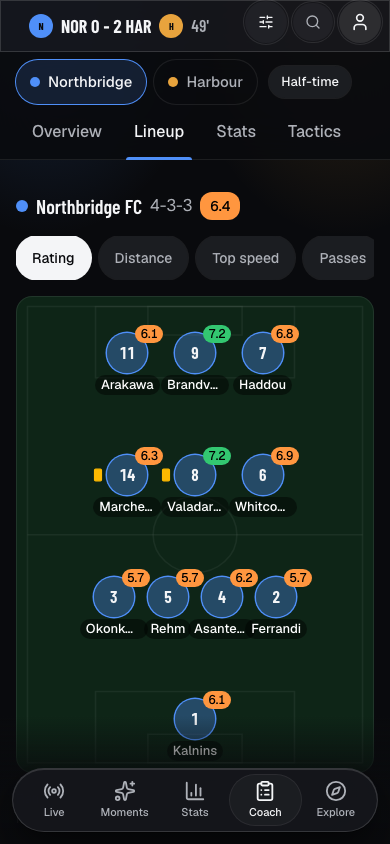
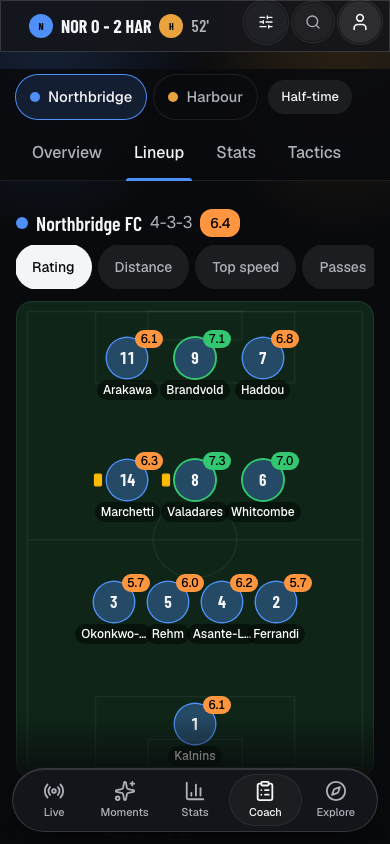
FRONTEND: tactics two-column from 1100px, collapsed setup once a board exists, trace behind a disclosure

diff --git a/frontend/src/features/coach/lineup-tab.tsx b/frontend/src/features/coach/lineup-tab.tsx
@@ -66,7 +66,7 @@ function place(meta: MatchMeta, team: Team): Spot[] {
 type Layout = "vertical" | "home" | "away";
 function toXY(s: Spot, layout: Layout): { x: number; y: number } {
   if (layout === "vertical") return { x: 12 + s.across * 76, y: 91 - s.along * 77 };
-  const x = 5 + s.along * 41;
+  const x = 5 + s.along * 37;
   // Home attacks right (its left is the top of the screen); away attacks left (its left is the bottom).
   return layout === "home" ? { x, y: 12 + s.across * 76 } : { x: 100 - x, y: 12 + (1 - s.across) * 76 };
 }
@@ -88,6 +88,8 @@ function Icons({ m }: { m: Marks }) {
     </>
   );
 }
+
+const short = (name: string) => (name.length > 9 ? `${name.slice(0, 8)}…` : name);
 
 function lensText(lens: Lens, s: PlayerStats | undefined): string | null {
   if (!s) return null;
@@ -128,6 +130,7 @@ function Marker({ spot, layout, meta, rating, stats, marks, lens, potm, side, in
             "grid size-10 place-items-center rounded-full font-display text-base font-bold ring-[1.5px] transition-transform group-hover:scale-105 group-focus-visible:ring-2 group-focus-visible:ring-ring",
             side === "home" ? "bg-home/35 ring-home" : "bg-away/35 ring-away",
             poor && "ring-2 ring-[var(--rating-poor)]",
+            rating && rating.data_rating >= 7 && "ring-2 ring-[var(--rating-good)]",
           )}
         >
           {p.shirt}
@@ -139,7 +142,7 @@ function Marker({ spot, layout, meta, rating, stats, marks, lens, potm, side, in
         ) : null}
         <Icons m={marks} />
       </span>
-      <span className="max-w-[96px] max-sm:max-w-[68px] truncate rounded-full bg-black/45 px-1.5 text-[13px] leading-5 font-medium text-white">{p.short_name}</span>
+      <span title={p.name} className="rounded-full bg-black/45 px-1.5 text-xs leading-5 font-medium whitespace-nowrap text-white">{short(p.short_name)}</span>
     </button>
   );
 }
@@ -173,7 +176,7 @@ function PitchFrame({ horizontal, label, children }: { horizontal: boolean; labe
   return (
     <div
       className="relative mx-auto w-full overflow-hidden rounded-2xl border bg-turf"
-      style={horizontal ? { aspectRatio: "105 / 68", maxHeight: "min(600px, 72vh)", maxWidth: "calc(min(600px, 72vh) * 105 / 68)" } : { aspectRatio: "3 / 4", maxHeight: "min(640px, 70vh)", maxWidth: "calc(min(640px, 70vh) * 3 / 4)" }}
+      style={horizontal ? { aspectRatio: "105 / 68", width: "min(100%, calc(clamp(360px, calc(100dvh - 270px), 640px) * 105 / 68))" } : { aspectRatio: "3 / 4", width: "min(100%, calc(clamp(360px, calc(100dvh - 330px), 640px) * 3 / 4))" }}
     >
       <PitchLines horizontal={horizontal} />
       <div role="group" aria-label={label} className="absolute inset-0">
@@ -272,25 +275,24 @@ export function LineupTab() {
       <Marker key={spot.id} spot={spot} layout={wide ? side : "vertical"} meta={meta} rating={map.get(spot.id)} stats={stats.get(spot.id)} marks={marks.get(spot.id) ?? NONE} lens={lens} potm={potmId === spot.id} side={side} index={i} onKey={moveFocus} />
     ));
   return (
-    <div className="flex flex-col gap-4 py-4">
-      <div className="flex flex-wrap items-center justify-between gap-x-6 gap-y-2">
+    <div className="flex flex-col gap-3 py-3">
+      <div className="flex flex-wrap items-center justify-between gap-x-4 gap-y-2">
         {sides.map((s) => (
           <TeamStrip key={s} meta={meta} side={s} ratings={map} />
         ))}
+        {lenses.length > 1 && (
+          <div role="radiogroup" aria-label={copy.coachPage.lensLabel} title={copy.coachPage.legend} className="order-last flex w-full gap-2 overflow-x-auto sm:order-none sm:w-auto [scrollbar-width:none]">
+            {lenses.map(([l, label]) => (
+              <button key={l} type="button" role="radio" aria-checked={lens === l} onClick={() => setLens(l)} className={cn("h-11 shrink-0 rounded-full px-4 text-sm font-medium ring-1", lens === l ? "bg-foreground text-background ring-foreground" : "bg-raised text-muted-foreground ring-border hover:text-foreground")}>
+                {label}
+              </button>
+            ))}
+          </div>
+        )}
       </div>
-      {lenses.length > 1 && (
-        <div role="radiogroup" aria-label={copy.coachPage.lensLabel} className="flex gap-2 overflow-x-auto [scrollbar-width:none]">
-          {lenses.map(([l, label]) => (
-            <button key={l} type="button" role="radio" aria-checked={lens === l} onClick={() => setLens(l)} className={cn("h-11 shrink-0 rounded-full px-4 text-sm font-medium ring-1", lens === l ? "bg-foreground text-background ring-foreground" : "bg-raised text-muted-foreground ring-border hover:text-foreground")}>
-              {label}
-            </button>
-          ))}
-        </div>
-      )}
       <PitchFrame horizontal={wide} label={sides.map((s) => `${meta[s].name} ${meta[s].formation}`).join(", ")}>
         {sides.flatMap((s) => marker(s))}
       </PitchFrame>
-      <p className="text-[13px] text-muted-foreground">{copy.coachPage.legend}</p>
       <div className={cn("grid gap-x-8 gap-y-4", wide && "grid-cols-2")}>
         {sides.map((s) => (
           <Subs key={s} meta={meta} team={meta[s]} ratings={map} marks={marks} side={s} />

diff --git a/frontend/src/features/tactics/tactics-board.tsx b/frontend/src/features/tactics/tactics-board.tsx
@@ -163,6 +163,7 @@ export function TacticsBoardView({ fixture }: { fixture: boolean }) {
   const [pickedTeam, setPickedTeam] = useState<string | null>(null);
   const [settings, setSettings] = useState<PromptSettings>({ prompt: "", risk: "balanced", n: 4, horizon: 10 });
   const [boardId, setBoardId] = useState<string | null>(null);
+  const [editing, setEditing] = useState(true);
   const [pickedBranch, setPickedBranch] = useState<string | null>(null);
   const [compareWith, setCompareWith] = useState<string | null>(null);
   const [comparing, setComparing] = useState<string | null>(null);
@@ -193,6 +194,7 @@ export function TacticsBoardView({ fixture }: { fixture: boolean }) {
     create.mutate(request, {
       onSuccess: (created) => {
         setBoardId(created.board_id);
+        setEditing(false);
         setPickedBranch(null);
         setComparing(null);
         setCompareWith(null);
@@ -253,7 +255,7 @@ export function TacticsBoardView({ fixture }: { fixture: boolean }) {
           <h1 className="sr-only">{t.heading}</h1>
           {fixture && <Badge className="bg-rewritten/15 text-rewritten">{t.fixtureBanner}</Badge>}
         </div>
-        <p className="max-w-prose text-sm text-muted-foreground">{t.intro}</p>
+        {!boardId && <p className="max-w-prose text-sm text-muted-foreground">{t.intro}</p>}
       </div>
 
       <div className="flex flex-col gap-6">
@@ -265,11 +267,20 @@ export function TacticsBoardView({ fixture }: { fixture: boolean }) {
             if (canBuild) build();
           }}
         >
-          <ScenarioPrompt
-            {...settings}
-            onChange={(next) => setSettings((s) => ({ ...s, ...next }))}
-            extra={<MomentPicker source={source} onSource={setSource} moments={moments} maxElapsed={maxElapsed} teams={teams} teamId={teamId} onTeam={setPickedTeam} />}
-          />
+          {boardId && !editing ? (
+            <div className="flex flex-wrap items-center gap-3">
+              <p className="min-w-0 flex-1 truncate text-base font-medium">{t.goalFirst.goals.find((x) => x.text === settings.prompt)?.label ?? (settings.prompt.trim() || t.goalFirst.question)}</p>
+              <Button type="button" variant="outline" className="h-11 px-4" onClick={() => setEditing(true)}>
+                {t.changeSituation}
+              </Button>
+            </div>
+          ) : (
+            <ScenarioPrompt
+              {...settings}
+              onChange={(next) => setSettings((s) => ({ ...s, ...next }))}
+              extra={<MomentPicker source={source} onSource={setSource} moments={moments} maxElapsed={maxElapsed} teams={teams} teamId={teamId} onTeam={setPickedTeam} />}
+            />
+          )}
           <div className="flex flex-col gap-3">
             <Button type="submit" size="lg" className="h-12 w-full gap-2 px-6 text-base sm:w-fit" disabled={!canBuild || working}>
               {working ? <LoaderCircle aria-hidden className="motion-safe:animate-spin" /> : <Hammer aria-hidden />}
@@ -301,7 +312,6 @@ export function TacticsBoardView({ fixture }: { fixture: boolean }) {
           ) : (
             <>
               <SituationBar board={{ situation }} teams={teams} />
-              {board && <AgentTrace board={board} noise={withinNoise(board)} />}
               {query.isError && !board && (
                 <div role="alert" className="flex flex-wrap items-center gap-3 rounded-lg border border-blocked/40 p-4 text-sm">
                   {t.stage.loadFailed}
@@ -325,9 +335,9 @@ export function TacticsBoardView({ fixture }: { fixture: boolean }) {
                 />
               ) : null}
 
-              <div className={cn("grid items-start gap-6", !comparing && "xl:grid-cols-[minmax(0,1fr)_24rem]")}>
+              <div className={cn("grid items-start gap-6", !comparing && "min-[1100px]:grid-cols-[minmax(0,1fr)_26rem]")}>
                 {!comparing && (
-                  <div className="flex min-w-0 flex-col gap-4 xl:sticky xl:top-[calc(var(--stack-h)+1rem)]">
+                  <div className="flex min-w-0 flex-col gap-4 min-[1100px]:sticky min-[1100px]:top-[calc(var(--stack-h)+4.5rem)]">
                     {board && active ? (
                       <>
                         <div className="rounded-lg border bg-card p-4 shadow-raised">
@@ -393,6 +403,16 @@ export function TacticsBoardView({ fixture }: { fixture: boolean }) {
                         ))}
                     </ul>
                   </section>
+                  {board && (
+                    <details className="group rounded-lg border bg-card p-3">
+                      <summary className="flex min-h-11 cursor-pointer list-none items-center justify-between text-sm font-medium [&::-webkit-details-marker]:hidden">
+                        {t.trace.heading}
+                      </summary>
+                      <div className="pt-2">
+                        <AgentTrace board={board} noise={withinNoise(board)} />
+                      </div>
+                    </details>
+                  )}
                 </div>
               </div>
             </>

diff --git a/frontend/src/features/coach/coach-page.tsx b/frontend/src/features/coach/coach-page.tsx
@@ -4,7 +4,7 @@ import { useIsFetching, useQueryClient } from "@tanstack/react-query";
 import { LayoutGroup, m } from "motion/react";
 import { RotateCw } from "lucide-react";
 import { useSearchParams } from "next/navigation";
-import { Suspense, useId, useState } from "react";
+import { Suspense, useEffect, useId, useRef, useState } from "react";
 
 import { StablePanel } from "@/components/ui/stable-panel";
 import { Button } from "@/components/ui/button";
@@ -34,7 +34,7 @@ function CoachTabs({ tab, onChange }: { tab: Tab; onChange: (t: Tab) => void }) 
   const id = useId();
   return (
     <LayoutGroup id={id}>
-      <div role="tablist" aria-label={copy.coachPage.tabs} className="-mb-px flex overflow-x-auto overscroll-x-contain [scrollbar-width:none]">
+      <div role="tablist" aria-label={copy.coachPage.tabs} className="-mb-px flex max-w-full overflow-x-auto overscroll-x-contain [scrollbar-width:none]">
         {TABS.map((t) => {
           const active = t.id === tab;
           return (
@@ -80,13 +80,25 @@ function Header({ tab, onChange }: { tab: Tab; onChange: (t: Tab) => void }) {
   const picked = useCoach((s) => s.teamId);
   const client = useQueryClient();
   const fetching = useIsFetching({ queryKey: ["coach"] }) > 0;
+  const sentinel = useRef<HTMLDivElement>(null);
+  const [stuck, setStuck] = useState(false);
+  useEffect(() => {
+    const el = sentinel.current;
+    if (!el) return;
+    const offset = parseInt(getComputedStyle(document.documentElement).getPropertyValue("--stack-h")) || 52;
+    const io = new IntersectionObserver(([entry]) => setStuck(!entry.isIntersecting), { rootMargin: `-${offset}px 0px 0px 0px`, threshold: 0 });
+    io.observe(el);
+    return () => io.disconnect();
+  }, []);
   const teamId = picked ?? meta?.home.team_id ?? null;
   const half = state ? state.elapsed >= 2700 && state.elapsed <= 3600 && !finished : false;
   const phase = finished ? copy.report.phase.full : half ? copy.report.phase.half : state ? copy.coachPage.liveAt(state.minute_label) : "";
   return (
-    <div className="sticky top-[var(--stack-h)] z-30 -mx-4 border-b bg-background/90 px-4 backdrop-blur-xl md:-mx-6 md:px-6 xl:-mx-8 xl:px-8 print:hidden">
-      <div className="mx-auto max-w-7xl">
-      <div className="flex flex-wrap items-center gap-x-3 gap-y-1 pt-2">
+    <>
+    <div ref={sentinel} aria-hidden className="h-px" />
+    <div className={cn("sticky top-[var(--stack-h)] z-30 border-b transition-colors print:hidden", stuck ? "glass-strong" : "bg-background/90")}>
+      <div className="mx-auto flex max-w-7xl flex-wrap items-end justify-between gap-x-4 px-4 md:px-6 xl:px-8">
+      <div className="flex flex-wrap items-center gap-x-3 gap-y-1 py-1.5">
         {meta && teamId && (
           <div role="radiogroup" aria-label={copy.coachPage.team} className="flex gap-2">
             {(["home", "away"] as const).map((side) => {
@@ -121,6 +133,7 @@ function Header({ tab, onChange }: { tab: Tab; onChange: (t: Tab) => void }) {
       <CoachTabs tab={tab} onChange={onChange} />
       </div>
     </div>
+    </>
   );
 }
 
@@ -136,9 +149,9 @@ function Body() {
     window.history.replaceState(null, "", next === "overview" ? "/coach" : `/coach?tab=${next}`);
   };
   return (
-    <div className="flex flex-col gap-4 px-4 pb-8 md:px-6 xl:px-8" style={{ ["--accent-team" as string]: side === "home" ? "var(--team-home)" : "var(--team-away)" }}>
+    <div className="flex flex-col gap-4 pb-8" style={{ ["--accent-team" as string]: side === "home" ? "var(--team-home)" : "var(--team-away)" }}>
       <Header tab={tab} onChange={change} />
-      <div className="mx-auto w-full max-w-7xl">
+      <div className="mx-auto w-full max-w-7xl px-4 md:px-6 xl:px-8">
         <StablePanel panelKey={tab}>
           <div id="coach-panel" role="tabpanel" aria-labelledby={`coach-tab-${tab}`}>
             {tab === "overview" ? (

diff --git a/frontend/src/features/stats/stat-rows.tsx b/frontend/src/features/stats/stat-rows.tsx
@@ -44,9 +44,9 @@ function cards(meta: MatchMeta, timeline: MatchEvent[], side: "home" | "away") {
   return { yellow: own.filter((e) => !red(e)).length, red: own.filter(red).length };
 }
 
-function useGroups(meta: MatchMeta, period: Period, h: TeamStats, a: TeamStats): Group[] {
+function useGroups(meta: MatchMeta, period: Period, h: TeamStats, a: TeamStats, coach: boolean): Group[] {
   const timeline = useLive((s) => s.timeline);
-  const analyst = useAnalystWording();
+  const analyst = useAnalystWording() || coach;
   const ratings = useRatings().data;
   const players = usePlayersStats((ratings ?? []).map((r) => r.player_id));
   return useMemo(() => {
@@ -170,7 +170,7 @@ function PeriodFilter({ value, onChange, second }: { value: Period; onChange: (p
 }
 
 /** The whole team comparison: filter, possession bar, then grouped rows. Rows the feed lacks are left out. */
-export function TeamStatRows() {
+export function TeamStatRows({ coach = false }: { coach?: boolean }) {
   const meta = useLive((s) => s.meta);
   const state = useLive((s) => s.state);
   const half = Boolean(state && state.elapsed >= 2700 && state.elapsed <= 3600 && state.status !== "full_time");
@@ -186,19 +186,18 @@ export function TeamStatRows() {
       </div>
     );
   }
-  return <Rows meta={meta} h={home} a={away} period={period} setPeriod={setPeriod} second={(state?.period ?? 1) >= 2} />;
+  return <Rows meta={meta} h={home} a={away} period={period} setPeriod={setPeriod} second={(state?.period ?? 1) >= 2} coach={coach} />;
 }
 
-function Rows({ meta, h, a, period, setPeriod, second }: { meta: MatchMeta; h: TeamStats; a: TeamStats; period: Period; setPeriod: (p: Period) => void; second: boolean }) {
-  const groups = useGroups(meta, period, h, a);
+function Rows({ meta, h, a, period, setPeriod, second, coach }: { meta: MatchMeta; h: TeamStats; a: TeamStats; period: Period; setPeriod: (p: Period) => void; second: boolean; coach: boolean }) {
+  const groups = useGroups(meta, period, h, a, coach);
   return (
     <section aria-labelledby="stat-rows" className="flex flex-col gap-4">
       <h2 id="stat-rows" className="sr-only">{copy.stats.team}</h2>
-      <PeriodFilter value={period} onChange={setPeriod} second={second} />
-      <div className="grid grid-cols-[5rem_minmax(0,1fr)_5rem] items-center text-center font-display text-lg font-semibold">
-        <span className="text-home-text">{meta.home.short_name}</span>
-        <span />
-        <span className="text-away-text">{meta.away.short_name}</span>
+      <div className="flex items-center justify-between gap-3">
+        <span className="font-display text-lg font-semibold text-home-text">{meta.home.short_name}</span>
+        <PeriodFilter value={period} onChange={setPeriod} second={second} />
+        <span className="font-display text-lg font-semibold text-away-text">{meta.away.short_name}</span>
       </div>
       {groups.map((g) => (
         <div key={g.title} className="flex flex-col rounded-2xl bg-card p-4">

diff --git a/frontend/src/features/coach/overview.tsx b/frontend/src/features/coach/overview.tsx
@@ -17,7 +17,6 @@ import { cn } from "@/lib/utils";
 
 import { briefKey, useCoach } from "./coach-store";
 import { RatingBadge } from "./rating";
-import { useAnalystWording } from "./use-analyst";
 
 const CONFIDENCE_TONE: Record<Confidence, string> = {
   high: "bg-verified/15 text-verified",
@@ -141,7 +140,6 @@ function SplitBar({ label, home, away }: { label: string; home: number; away: nu
 
 /** xG race, momentum, territory and possession. Thin samples say so instead of showing 0.00. */
 function GameSoFar({ meta, half, wide }: { meta: MatchMeta; half: boolean; wide: boolean }) {
-  const analyst = useAnalystWording();
   const timeline = useLive((s) => s.timeline);
   const elapsed = useLive((s) => s.state?.elapsed ?? 0);
   const home = useTeamStats(meta.home.team_id).data;
@@ -162,13 +160,12 @@ function GameSoFar({ meta, half, wide }: { meta: MatchMeta; half: boolean; wide:
         {copy.coachPage.gameSoFar}
         {half && <span className="ml-2 text-[13px] font-normal text-muted-foreground">{copy.coachPage.firstHalf}</span>}
       </h2>
-      <div className="grid gap-4 min-[700px]:grid-cols-2 min-[700px]:gap-6 min-[1100px]:grid-cols-1">
+      <div className="grid gap-4 min-[700px]:grid-cols-[340px_minmax(0,1fr)] min-[700px]:gap-6 min-[1100px]:grid-cols-1">
       {thin ? (
         <p className="text-[15px] text-muted-foreground">{copy.coachPage.earlyDays}</p>
       ) : (
         <div className="flex flex-col gap-1">
-          <span className="text-[13px] font-medium text-muted-foreground">{analyst ? "xG" : copy.stats.labels.xg}</span>
-          <div className="max-w-md min-[700px]:max-w-none"><XgTimeline meta={meta} timeline={shown} minutes={half ? 45 : 90} /></div>
+          <div className="flex flex-col gap-1 min-[700px]:max-w-[340px] min-[1100px]:max-w-none"><span className="text-[13px] font-medium text-muted-foreground">xG</span><XgTimeline meta={meta} timeline={shown} minutes={half ? 45 : 90} /></div>
         </div>
       )}
       <div className="flex flex-col gap-4">

diff --git a/frontend/src/features/report/match-report.tsx b/frontend/src/features/report/match-report.tsx
@@ -8,7 +8,6 @@ import { toast } from "sonner";
 import { Button } from "@/components/ui/button";
 import { briefKey, useCoach } from "@/features/coach/coach-store";
 import { RatingBadge } from "@/features/coach/rating";
-import { useAnalystWording } from "@/features/coach/use-analyst";
 import { useLive } from "@/features/live/live-store";
 import { useCoachBrief, usePlayersStats, useRatings, useTeamStats } from "@/features/live/queries";
 import { useProfile } from "@/features/profile/profile-store";
@@ -256,7 +255,6 @@ export function MatchReport() {
   const fetched = useCoachBrief(finished ? null : teamId, language);
   const brief = fetched.data ?? stored;
   const { resolvedTheme, setTheme } = useTheme();
-  const analyst = useAnalystWording();
   if (!meta || !state) return null;
   const phase = finished ? R.phase.full : state.elapsed >= 2700 && state.elapsed <= 3600 ? R.phase.half : R.phase.latest;
   /** Print on paper colours, then put the viewer's theme back. */
@@ -345,7 +343,7 @@ export function MatchReport() {
               <p className="text-sm text-muted-foreground">{R.noActions}</p>
             )}
           </Section>
-          <Section title={analyst ? R.xgTimelineAnalyst : R.xgTimeline}>
+          <Section title={R.xgTimelineAnalyst}>
             <XgTimeline meta={meta} timeline={timeline} />
           </Section>
           <Section title={R.possession}>

diff --git a/frontend/src/features/tactics/scenario-prompt.tsx b/frontend/src/features/tactics/scenario-prompt.tsx
@@ -38,7 +38,7 @@ export function ScenarioPrompt({ prompt, risk, n, horizon, onChange, extra }: Pr
         <p id={`${id}-goal`} className="text-lg font-semibold">
           {g.question}
         </p>
-        <ul aria-labelledby={`${id}-goal`} className="grid gap-3 sm:grid-cols-2">
+        <ul aria-labelledby={`${id}-goal`} className="grid gap-3 sm:grid-cols-2 min-[1100px]:grid-cols-4">
           {g.goals.map((goal) => {
             const custom = goal.text === "";
             const active = custom ? prompt !== "" && !g.goals.some((x) => x.text && x.text === prompt) : prompt === goal.text;

diff --git a/frontend/src/lib/copy.ts b/frontend/src/lib/copy.ts
@@ -486,6 +486,7 @@ export const copy = {
     coachEmpty: "The bench brief appears once there is something to change.",
   },
   tactics: {
+    changeSituation: "Change situation",
     heading: "Tactics",
     intro:
       "Freeze a moment, ask for ideas, and watch each one played out ten seconds at a time. Every tactic is tried against the same situation many times, so you see what usually happens, not just what could.",

diff --git a/frontend/src/features/coach/stats-tab.tsx b/frontend/src/features/coach/stats-tab.tsx
@@ -7,7 +7,7 @@ import { TeamStatRows } from "@/features/stats/stat-rows";
 export function StatsTab() {
   return (
     <div className="mx-auto flex max-w-3xl flex-col gap-6 py-4">
-      <TeamStatRows />
+      <TeamStatRows coach />
       <ShotMapPanel />
     </div>
   );
